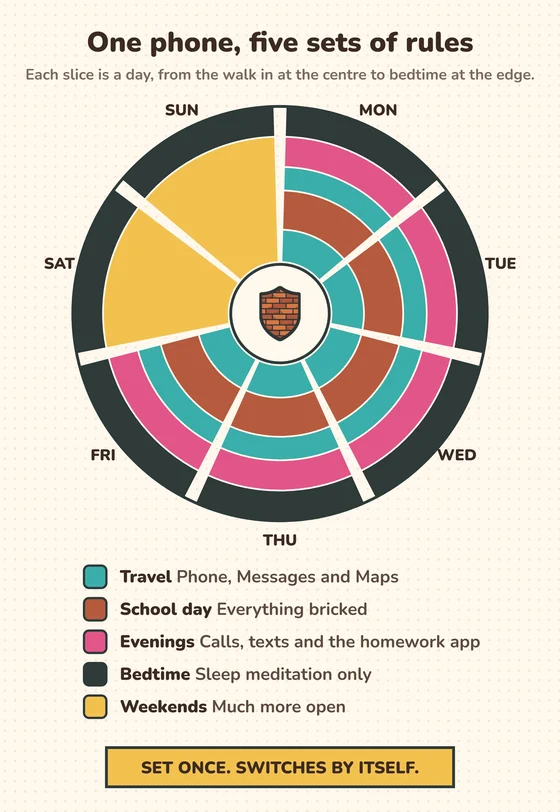
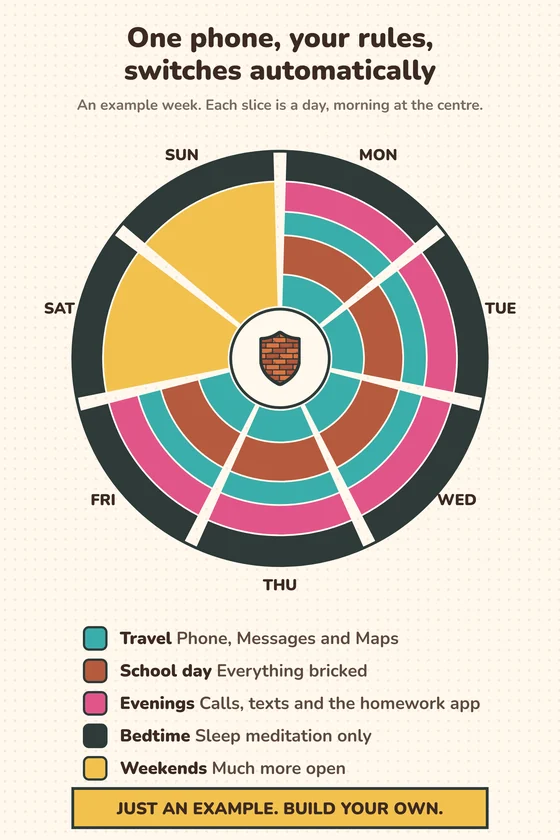
Brickify: wheel framed as an example, founder card under the ladder, comparisons in the 'what it isn't' box

diff --git a/brickify/index.html b/brickify/index.html
@@ -136,17 +136,21 @@
         </ol>
       </div>
 
-      <p class="section-sub bk-scope">If you've signed the Pact and can wait until 14, wait. That's a good choice. Brickify is for families who've decided a phone is needed now.</p>
       <p class="bk-link"><a href="the-phone-ladder.html">See the ladder close up &rarr;</a></p>
-      <p class="bk-link-sub">Or compare: <a href="brick-phone-vs-brickify.html">brick phone vs Brickify</a> · <a href="screenable-vs-brickify.html">Screenable</a> · <a href="canopy-vs-brickify.html">Canopy</a></p>
+      <a class="bk-founder" href="blog/why-i-built.html">
+        <img src="blog/images/why-i-built.webp" alt="Anne Mundy, founder of Brickify" width="896" height="1194" loading="lazy">
+        <span><b>"My sons' school went smartphone-free, there was an old phone in a drawer, and they were ready for something. So I built Brickify."</b>
+        <small>Anne Mundy, founder, engineer and mum &middot; Why I built Brickify &rarr;</small></span>
+      </a>
+      <p class="section-sub bk-scope">If you've signed the Pact and can wait until 14, wait. That's a good choice. Brickify is for families who've decided a phone is needed now.</p>
     </div>
   </section>
 
   <section class="section band band-teal">
     <div class="wrap">
       <h2 class="section-title">The school day is covered. The rest is up to us.</h2>
-      <div class="prose-narrow"><p>School rules stop at the gate. A phone needs different rules on the walk in, in class, in the evening, at bedtime and at weekends. If you have to change them by hand, it won't last. Brickify switches between them by itself.</p></div>
-      <figure class="bk-wheel bk-week"><img src="images/week-wheel.webp" srcset="images/week-wheel-560.webp 560w, images/week-wheel.webp 1000w" sizes="(max-width: 640px) 90vw, 560px" alt="An example week drawn as a wheel, one slice per day. Weekdays go Travel (Phone, Messages and Maps), School day (everything bricked), Travel, Evenings (calls, texts and the homework app), then Bedtime (sleep meditation only). Saturday and Sunday are Weekends (much more open) then Bedtime. Set once, switches by itself." width="1000" height="1450" loading="lazy"></figure>
+      <div class="prose-narrow"><p>School rules stop at the gate. A phone needs different rules at different times, depending on your family. If you have to change them by hand, it won't last. Brickify switches between them by itself.</p></div>
+      <figure class="bk-wheel bk-week"><img src="images/week-wheel.webp" srcset="images/week-wheel-560.webp 560w, images/week-wheel.webp 1000w" sizes="(max-width: 640px) 90vw, 560px" alt="One phone, your rules, switches automatically. An example week drawn as a wheel, one slice per day. Weekdays go Travel (Phone, Messages and Maps), School day (everything bricked), Travel, Evenings (calls, texts and the homework app), then Bedtime (sleep meditation only). Saturday and Sunday are Weekends (much more open) then Bedtime. Just an example: build your own." width="1000" height="1500" loading="lazy"></figure>
       <p class="bk-link"><a href="guides/index.html#families">See how other families set it up &rarr;</a></p>
     </div>
   </section>
@@ -171,12 +175,10 @@
           <h3>Guided setup</h3><p>Step by step, start to finish.</p>
         </div>
       </div>
-      <p class="bk-privacy"><b>Not a monitoring app.</b> Brickify doesn't read messages, browsing history or location. It blocks apps on a schedule you set. <a href="what-brickify-does.html">What it does, and doesn't &rarr;</a></p>
-      <a class="bk-founder" href="blog/why-i-built.html">
-        <img src="blog/images/why-i-built.webp" alt="Anne Mundy, founder of Brickify" width="896" height="1194" loading="lazy">
-        <span><b>"My sons' school went smartphone-free, and there was an old phone in a drawer. So I built Brickify."</b>
-        <small>Anne Mundy, founder, engineer and mum &middot; Why I built Brickify &rarr;</small></span>
-      </a>
+      <div class="bk-privacy">
+        <p><b>Not a monitoring app.</b> Brickify doesn't read messages, browsing history or location. It blocks apps on a schedule you set. <a href="what-brickify-does.html">What it does, and doesn't &rarr;</a></p>
+        <p class="bk-compare"><b>Not a brick phone, Screenable or Canopy either.</b> <span class="bk-nowrap">Compare: <a href="brick-phone-vs-brickify.html">Brick phone</a> &middot; <a href="screenable-vs-brickify.html">Screenable</a> &middot; <a href="canopy-vs-brickify.html">Canopy</a></span></p>
+      </div>
     </div>
   </section>
 

diff --git a/brickify/home.css b/brickify/home.css
@@ -416,7 +416,9 @@ body{background:var(--brick)}
 .bk-founder img{width:72px;height:72px;flex:none;border-radius:50%;object-fit:cover;object-position:50% 25%;border:3px solid var(--mortar)}
 .bk-founder b{display:block;font-size:16px;line-height:1.4}
 .bk-founder small{display:block;margin-top:6px;font-size:14px;font-weight:800;color:var(--brick-2)}
-.bk-privacy{max-width:680px;margin:36px auto 0;padding:14px 18px;border-radius:16px;background:var(--cream-2);color:var(--ink);font-size:16px;text-align:center}
+.bk-privacy{max-width:680px;margin:36px auto 0;padding:16px 20px;border-radius:18px;background:var(--cream-2);color:var(--ink);font-size:16px;text-align:center;border:3px solid var(--mortar);box-shadow:0 5px 0 rgba(0,0,0,.15)}
+.bk-privacy p{color:var(--ink);margin:0}
+.bk-privacy .bk-compare{margin-top:10px;padding-top:10px;border-top:2px dashed color-mix(in srgb,var(--ink) 25%,transparent)}
 .bk-privacy a{font-weight:800;white-space:nowrap}
 .cta-band .cta-price{font-size:19px;font-weight:900}
 .cta-band .cta-price{margin-bottom:6px}
@@ -428,4 +430,5 @@ body{background:var(--brick)}
 .bk-walk{max-width:760px;margin:36px auto 0}
 .bk-walk img{display:block;width:100%;height:auto;border-radius:22px;box-shadow:0 26px 50px -24px rgba(0,0,0,.55)}
 .bk-wheel.bk-week{max-width:560px}
-.bk-ladder + .bk-scope,.bk-scope{margin:28px auto 0}
+.bk-scope{margin:24px auto 0}
+.bk-nowrap{white-space:nowrap}
